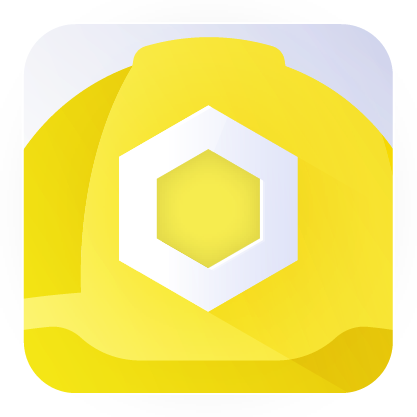
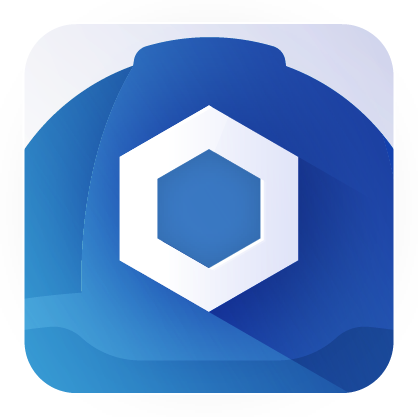
Apply new branding

diff --git a/README.md b/README.md
@@ -1,7 +1,7 @@
 <br/>
 <p align="center">
 <a href="https://chain.link" target="_blank">
-<img src="https://raw.githubusercontent.com/smartcontractkit/chainlink-hardhat-box/master/box-img-lg.png" width="225" alt="Chainlink Hardhat logo">
+<img src="./box-img-lg.png" width="225" alt="Chainlink Hardhat logo">
 </a>
 </p>
 <br/>
